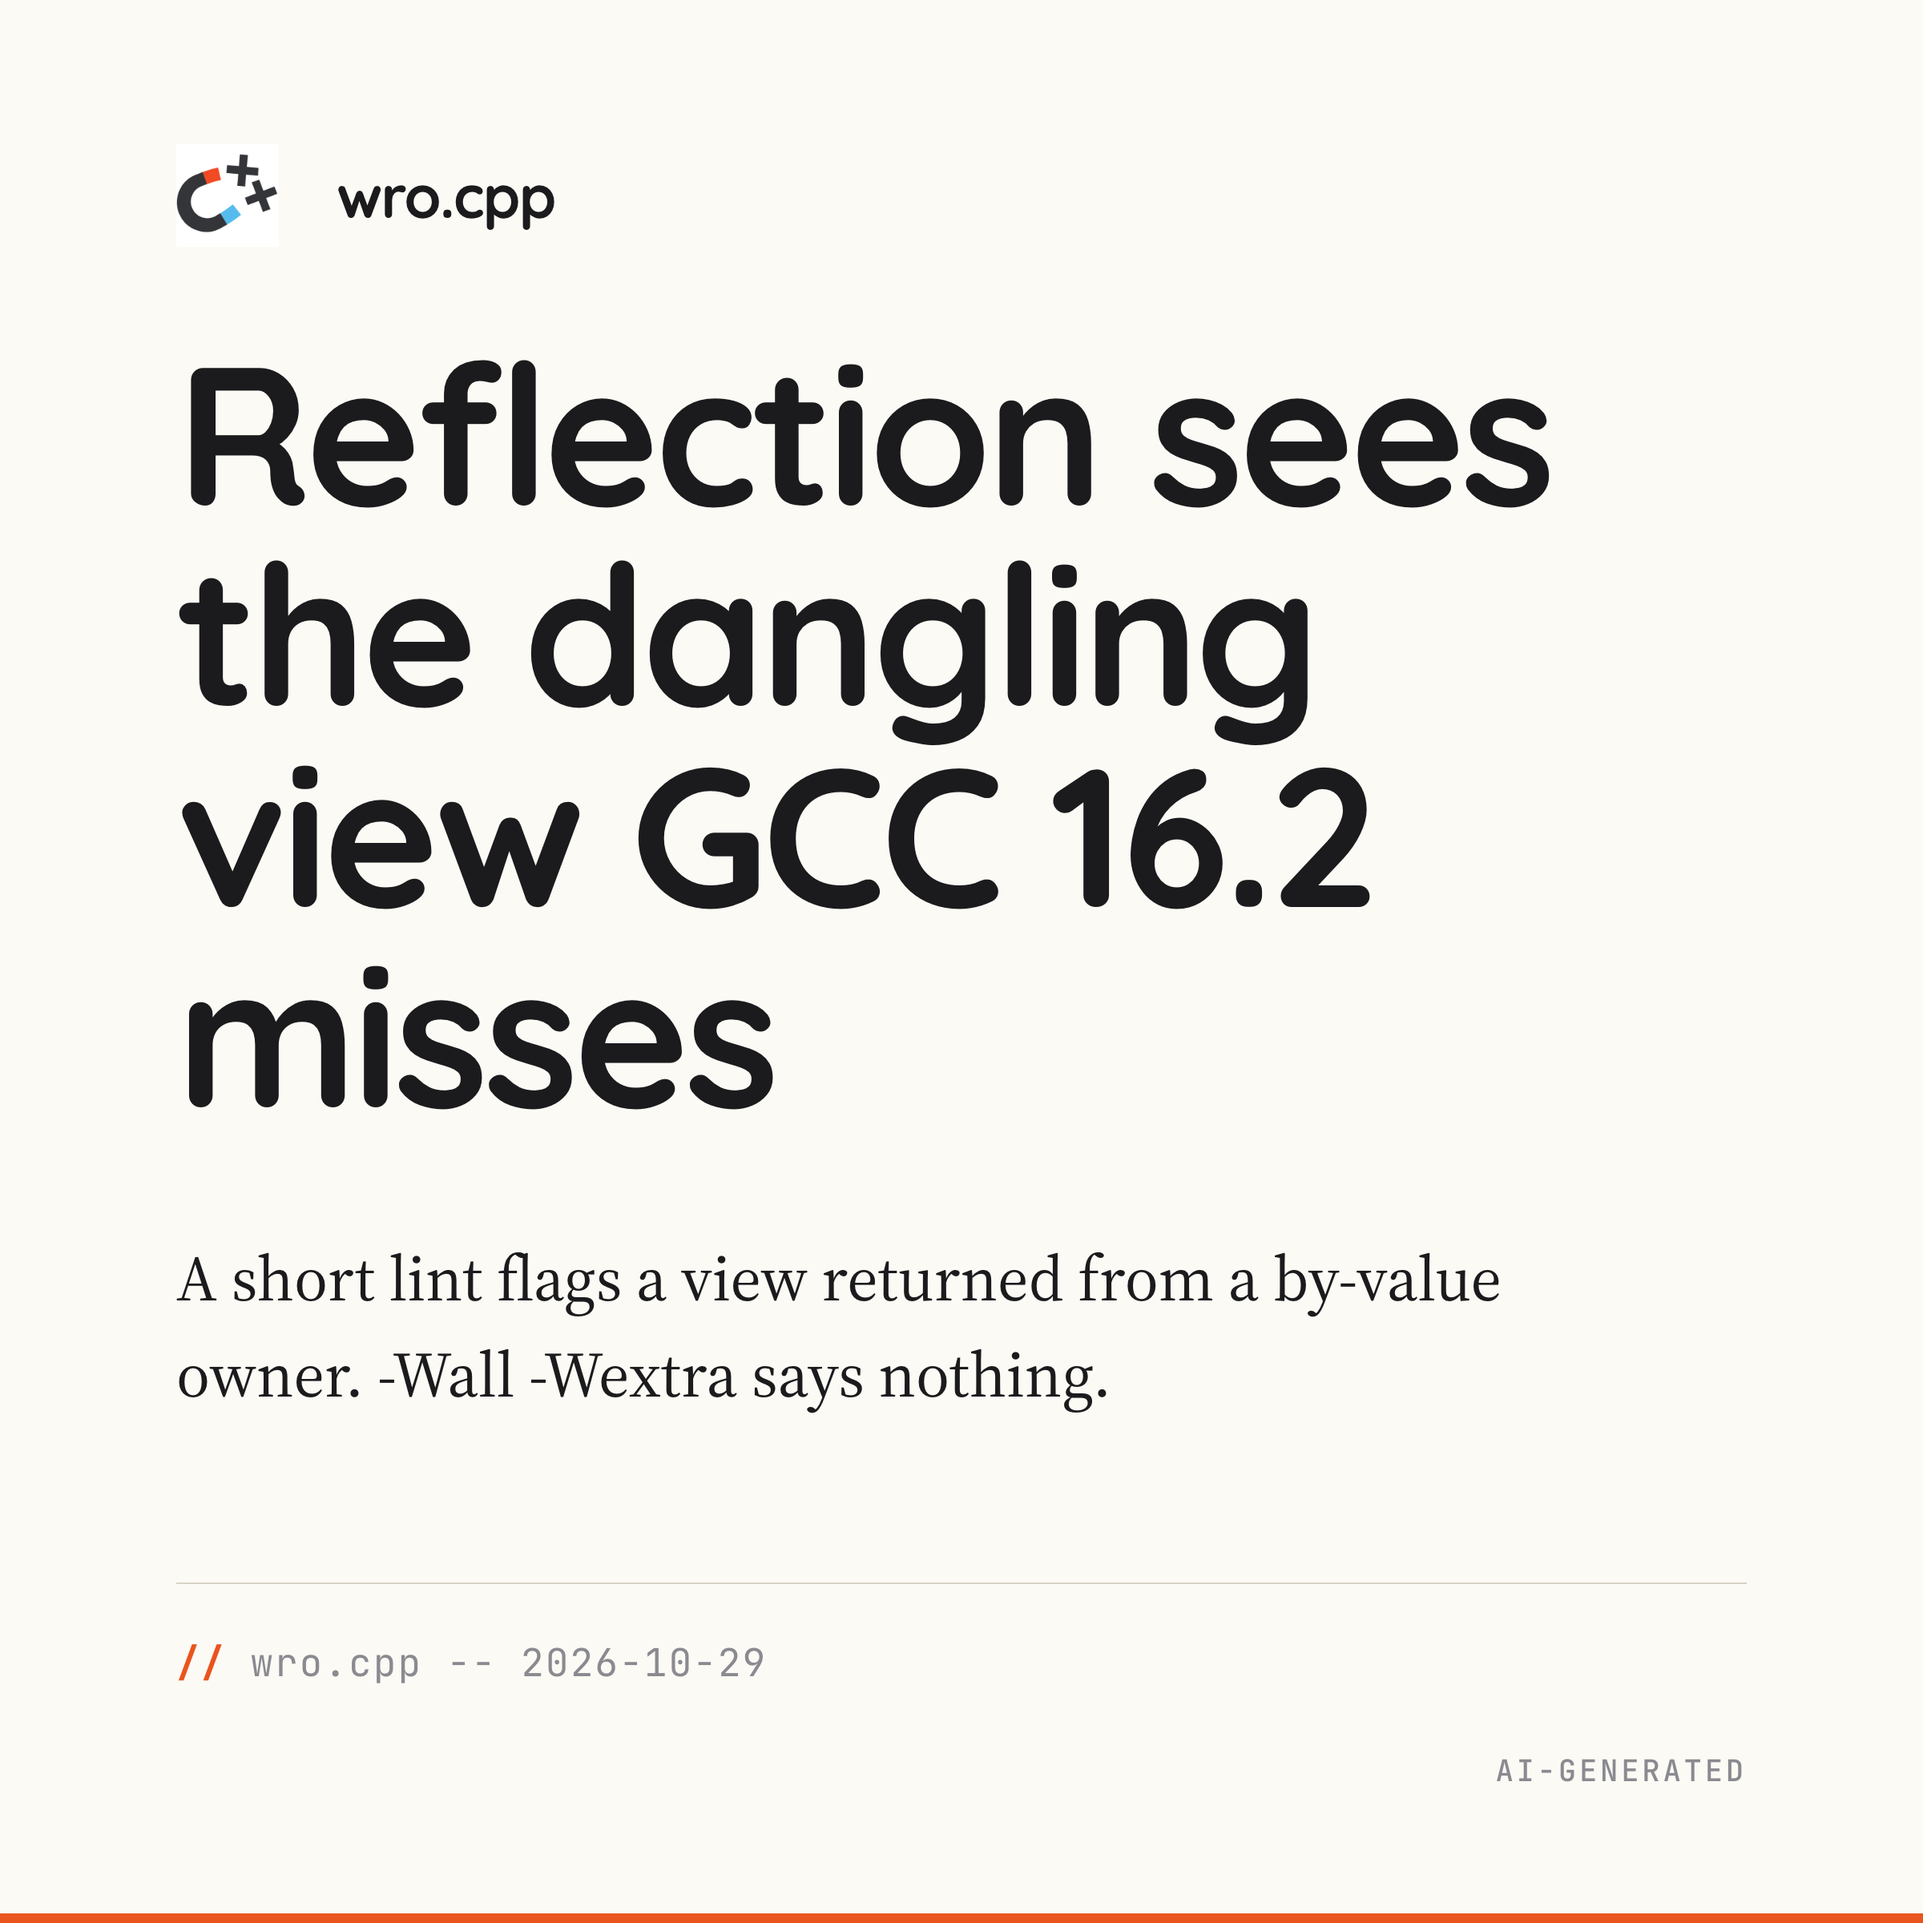
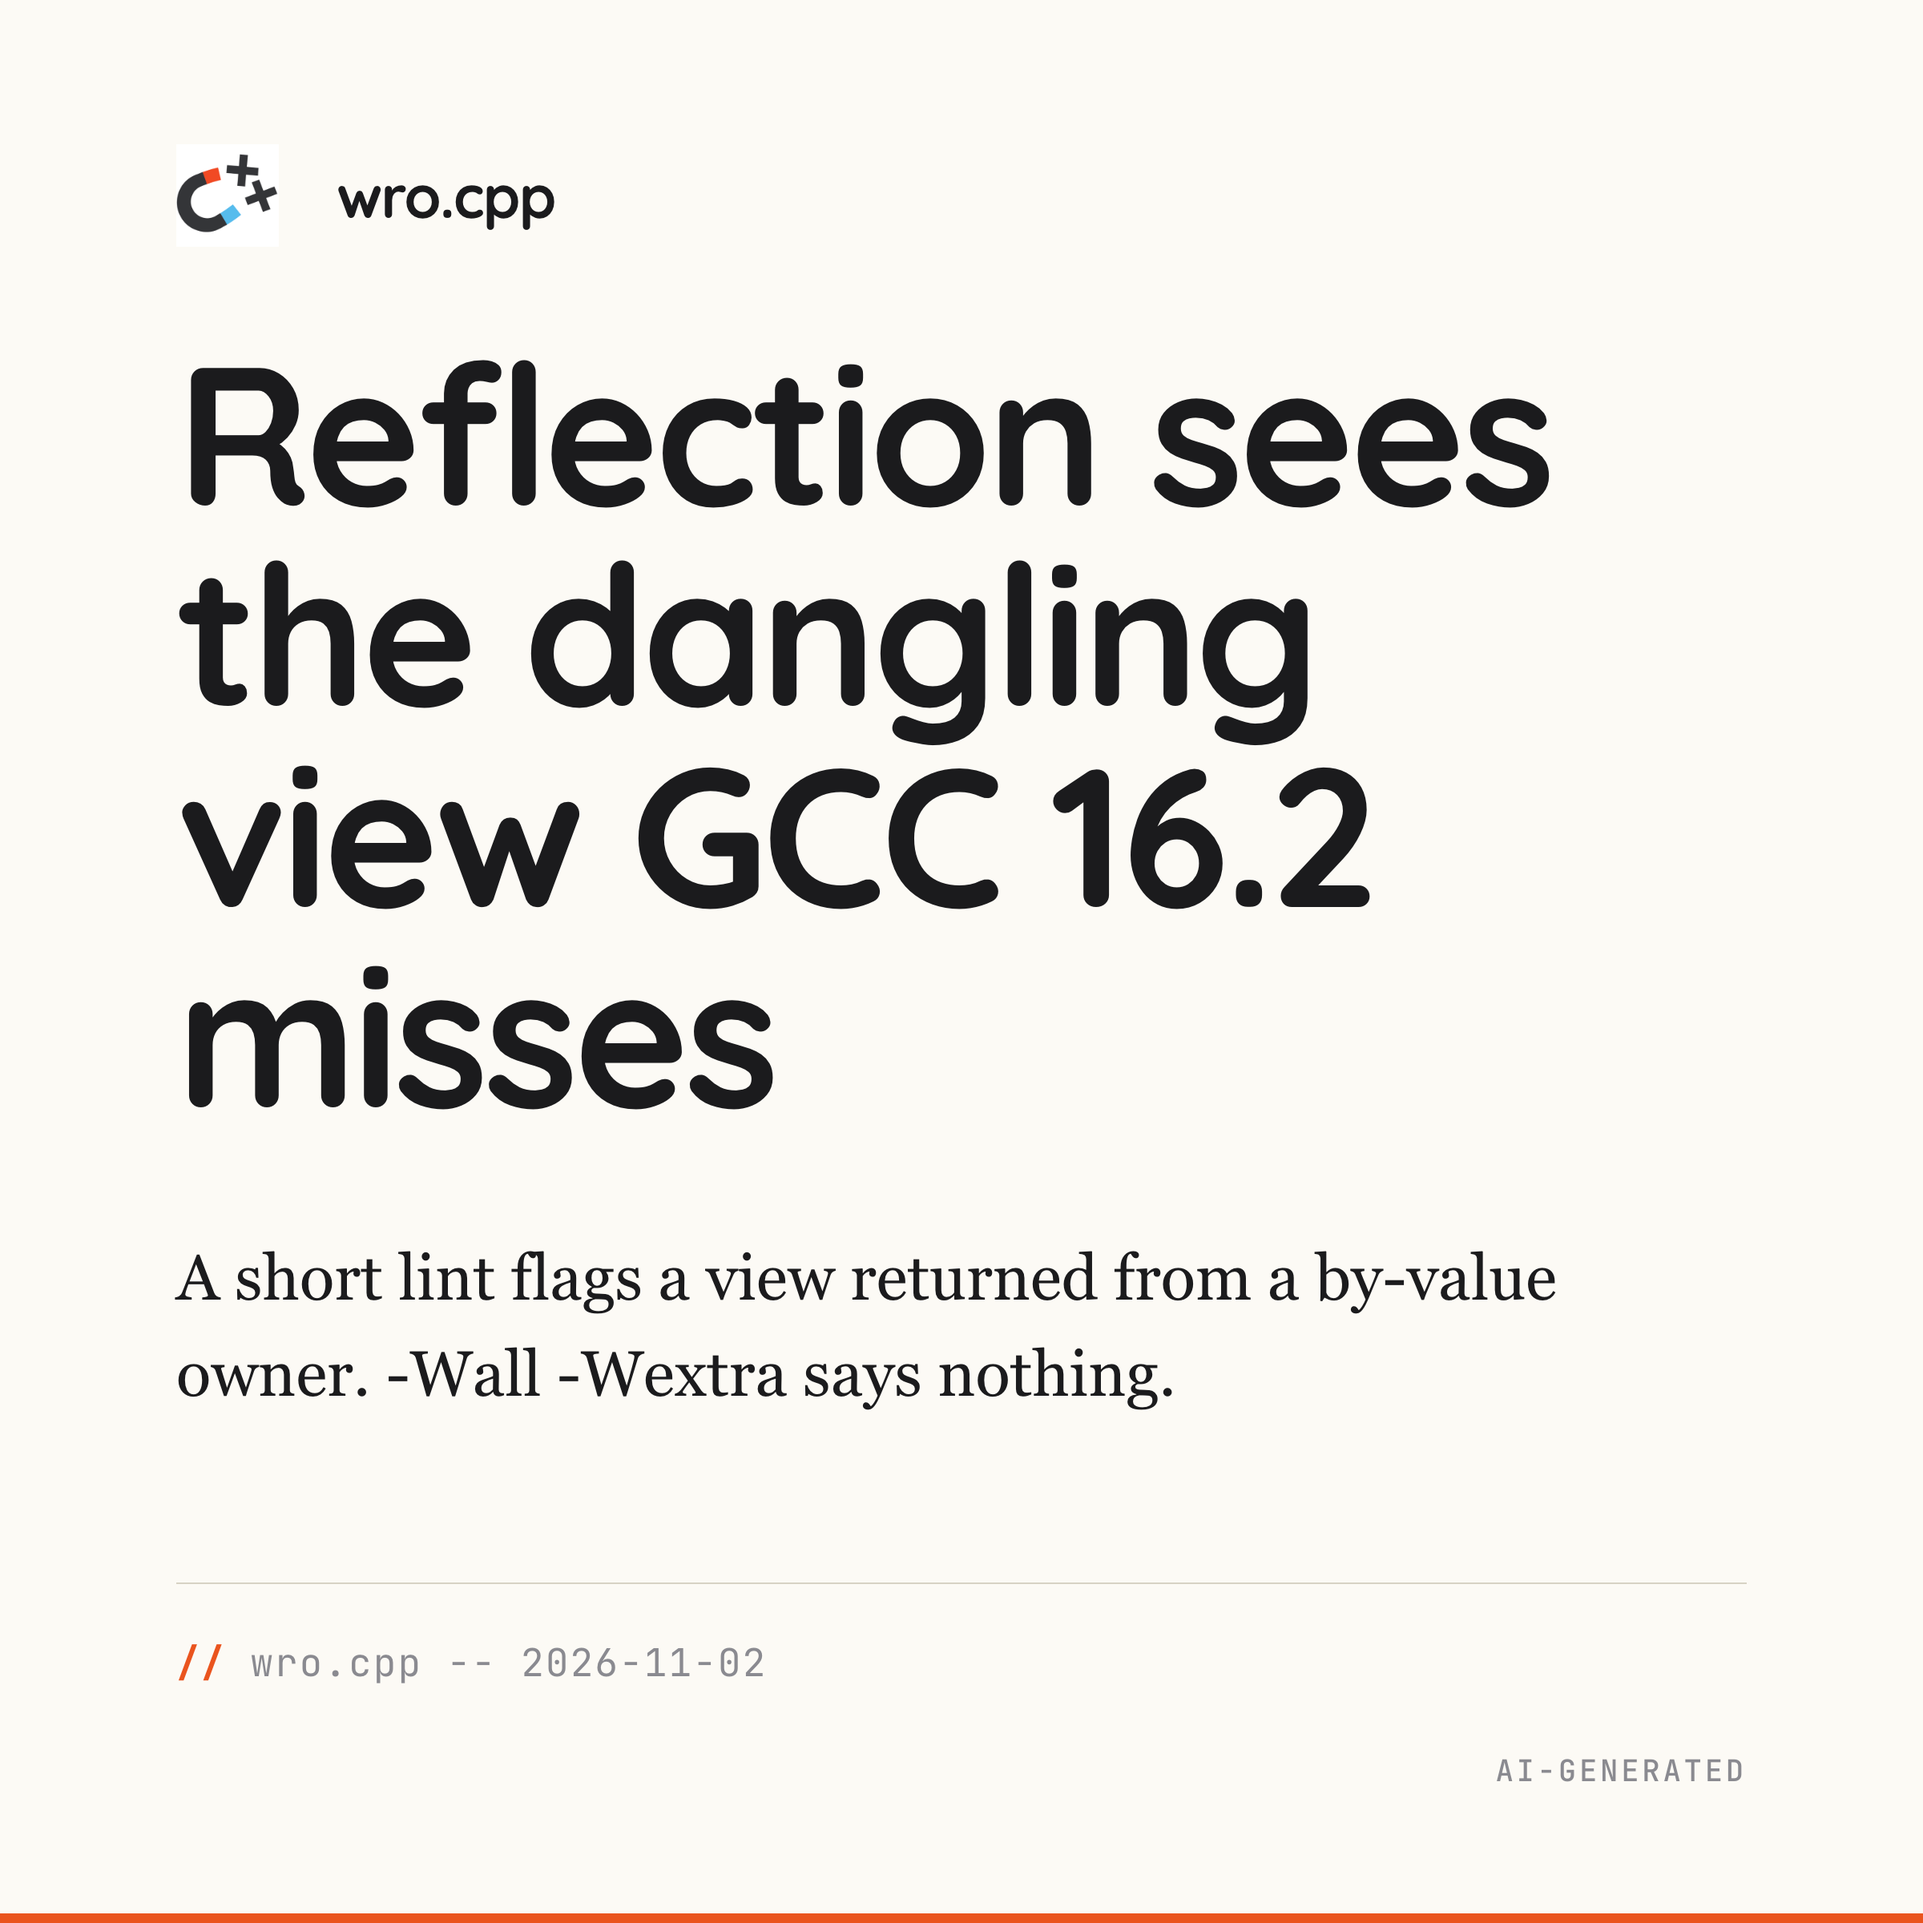
feat(post): move the reflection signature lint to 2 November
The Qt flagship takes the second slot of 29 October. The lint post keeps its cards, re-dated, as a planned second post at 16:00 UTC.

Claude-Session: https://claude.ai/code/session_01BTCmkp4nQKAhWT8TGXF9KX

Changed region(s): [[0.0938, 0.6562, 0.8125, 0.75], [0.375, 0.8438, 0.4062, 0.875]]

diff --git a/social/facebook/reflection-dangling-signature/index.html b/social/facebook/reflection-dangling-signature/index.html
@@ -23,6 +23,6 @@
   </defs>
 </svg>
 
-<section class="card card-insight dark"><div class="grid-bg"></div><div class="glow"></div><div class="insight-content"><h1>Reflection sees the dangling view GCC 16.2 misses</h1><p>A short lint flags a view returned from a by-value owner. -Wall -Wextra says nothing.</p><div class="insight-citation">wro.cpp -- 2026-10-29</div></div><div class="logo-watermark top-left"><svg viewBox="0 0 512 512" aria-hidden="true"><use href="#scudo-logo"/></svg><span class="logo-wordmark">ScudoAI</span></div><div class="ai-badge">AI-generated</div></section>
+<section class="card card-insight dark"><div class="grid-bg"></div><div class="glow"></div><div class="insight-content"><h1>Reflection sees the dangling view GCC 16.2 misses</h1><p>A short lint flags a view returned from a by-value owner. -Wall -Wextra says nothing.</p><div class="insight-citation">wro.cpp -- 2026-11-02</div></div><div class="logo-watermark top-left"><svg viewBox="0 0 512 512" aria-hidden="true"><use href="#scudo-logo"/></svg><span class="logo-wordmark">ScudoAI</span></div><div class="ai-badge">AI-generated</div></section>
 </body>
 </html>

diff --git a/social/linkedin/reflection-dangling-signature/index.html b/social/linkedin/reflection-dangling-signature/index.html
@@ -23,6 +23,6 @@
   </defs>
 </svg>
 
-<section class="card card-insight dark"><div class="grid-bg"></div><div class="glow"></div><div class="insight-content"><h1>Reflection sees the dangling view GCC 16.2 misses</h1><p>A short lint flags a view returned from a by-value owner. -Wall -Wextra says nothing.</p><div class="insight-citation">wro.cpp -- 2026-10-29</div></div><div class="logo-watermark top-left"><svg viewBox="0 0 512 512" aria-hidden="true"><use href="#scudo-logo"/></svg><span class="logo-wordmark">ScudoAI</span></div><div class="ai-badge">AI-generated</div></section>
+<section class="card card-insight dark"><div class="grid-bg"></div><div class="glow"></div><div class="insight-content"><h1>Reflection sees the dangling view GCC 16.2 misses</h1><p>A short lint flags a view returned from a by-value owner. -Wall -Wextra says nothing.</p><div class="insight-citation">wro.cpp -- 2026-11-02</div></div><div class="logo-watermark top-left"><svg viewBox="0 0 512 512" aria-hidden="true"><use href="#scudo-logo"/></svg><span class="logo-wordmark">ScudoAI</span></div><div class="ai-badge">AI-generated</div></section>
 </body>
 </html>

diff --git a/scripts/schedule_doubles.py b/scripts/schedule_doubles.py
@@ -142,11 +142,11 @@ INTENTIONAL_DOUBLES: dict[str, dict] = {
     # runs beside the post of the day.
     "2026-10-28": {"slug": "qt-observable-models-known-limits", "hour": 16,
                    "why": "follow-up to the Qt class template post, the known limits closed, beside the post of the day"},
-    # A reflection lint that flags a dangling-view signature GCC 16.2 does not
-    # warn about, written in response to Klaus Iglberger's safety article of
-    # 18 October. It runs beside the API-contract post of the day.
-    "2026-10-29": {"slug": "reflection-dangling-signature", "hour": 16,
-                   "why": "reflection signature lint, response to Iglberger's safety article, beside the API-contract post"},
+    # The flagship of the Qt series: which rows of a moc conformance matrix reflection
+    # matches, and a class with no macro. It took the second slot of 29 October from
+    # the reflection signature lint, which moved to 2 November.
+    "2026-10-29": {"slug": "moc-parity-matrix-reflection", "hour": 16,
+                   "why": "Qt series flagship beside the first post of the day"},
     # P3533R2 (constexpr virtual inheritance) is accepted by GCC 16 and Clang
     # trunk, with one case that differs. It runs beside the P0963 post of the day.
     "2026-10-30": {"slug": "constexpr-virtual-inheritance", "hour": 16,
@@ -162,6 +162,11 @@ INTENTIONAL_DOUBLES: dict[str, dict] = {
                    "why": "Rust and Swift interop news alongside the evergreen post, moved from 22 October"},
     # A GoogleTest news short. It moved from the first slot of 26 October, where the
     # post on the spec author's two corrections took the morning, to the first free second slot.
+    # A reflection lint that flags a dangling-view signature GCC 16.2 does not warn about,
+    # written in response to Klaus Iglberger's safety article of 18 October. It moved from
+    # 29 October, where the Qt flagship took the second slot.
+    "2026-11-02": {"slug": "reflection-dangling-signature", "hour": 16,
+                   "why": "reflection signature lint, response to Iglberger's safety article, moved from 29 October"},
     "2026-11-03": {"slug": "googletest-live-at-head", "hour": 16,
                    "why": "GoogleTest release news alongside the first tidy-agent episode, moved from 26 October"},
 }

diff --git a/social/facebook/reflection-dangling-signature/caption.md b/social/facebook/reflection-dangling-signature/caption.md
@@ -12,5 +12,5 @@ https://wrocpp.github.io/posts/reflection-dangling-signature/
 Cream wro.cpp card with the magnet logo. Headline reads "Reflection sees the dangling view GCC 16.2 misses" with a subtitle saying a short lint flags a view returned from a by-value owner and -Wall -Wextra says nothing. Citation footer: wro.cpp, 2026-10-29.
 
 ## Suggested post time
-Thursday 2026-10-29, 16:00 UTC
-Reason: second post of the day; the API contract post holds the 08:00 UTC slot.
+Monday 2026-11-02, 16:00 UTC
+Reason: the second slot of the day, moved here from 29 October for the Qt flagship.

diff --git a/social/linkedin/reflection-dangling-signature/caption.md b/social/linkedin/reflection-dangling-signature/caption.md
@@ -16,5 +16,5 @@ https://wrocpp.github.io/posts/reflection-dangling-signature/
 Cream wro.cpp card with the magnet logo. Headline reads "Reflection sees the dangling view GCC 16.2 misses" with a subtitle saying a short lint flags a view returned from a by-value owner and -Wall -Wextra says nothing. Citation footer: wro.cpp, 2026-10-29.
 
 ## Suggested post time
-Thursday 2026-10-29, 16:00 UTC
-Reason: second post of the day; the API contract post holds the 08:00 UTC slot.
+Monday 2026-11-02, 16:00 UTC
+Reason: the second slot of the day, moved here from 29 October for the Qt flagship.

diff --git a/social/facebook/reflection-dangling-signature/content.md b/social/facebook/reflection-dangling-signature/content.md
@@ -4,7 +4,7 @@ template: social/linkedin-post
 
 ::::post{type=insight theme=dark logo=top-left}
 
-:::insight{citation="wro.cpp -- 2026-10-29"}
+:::insight{citation="wro.cpp -- 2026-11-02"}
 # Reflection sees the dangling view GCC 16.2 misses
 A short lint flags a view returned from a by-value owner. -Wall -Wextra says nothing.
 :::

diff --git a/social/linkedin/reflection-dangling-signature/content.md b/social/linkedin/reflection-dangling-signature/content.md
@@ -4,7 +4,7 @@ template: social/linkedin-post
 
 ::::post{type=insight theme=dark logo=top-left}
 
-:::insight{citation="wro.cpp -- 2026-10-29"}
+:::insight{citation="wro.cpp -- 2026-11-02"}
 # Reflection sees the dangling view GCC 16.2 misses
 A short lint flags a view returned from a by-value owner. -Wall -Wextra says nothing.
 :::
